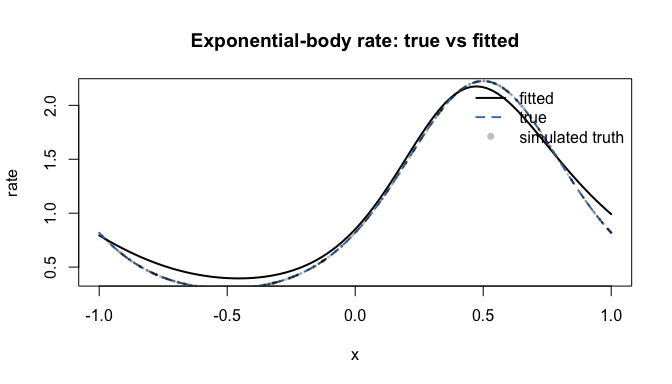
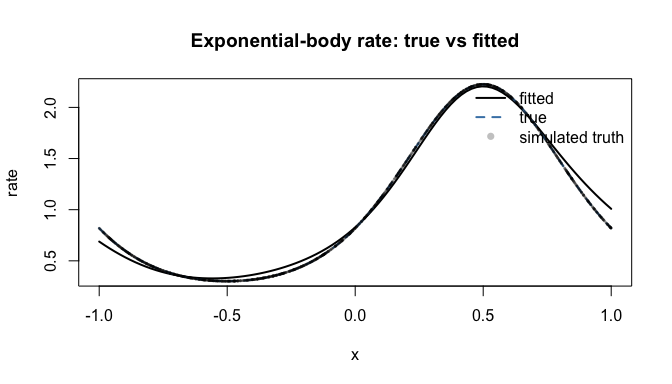
Increase sample size in composite Pareto vignette
Bump the GAM example from n=400 to n=2000 so the recovered rate(x)
visibly tracks the true sine, and add a note that recovery is an MLE
problem with 1/sqrt(n) precision so smaller samples look noisier.

diff --git a/articles/composite-pareto.md b/articles/composite-pareto.md
@@ -145,14 +145,15 @@ examples because it only needs three parameter formulas.
 ## 4. Fitting a CompPareto GAM
 
 Here we simulate data from an exponential-body composite Pareto model
-with a smooth predictor effect on the body rate. For this illustration,
-we use a somewhat larger sample and a higher splice point so the
-nonlinear body signal is visible in the fitted GAM.
+with a smooth predictor effect on the body rate. Recovery of `rate(x)`
+is a maximum likelihood problem, so its precision scales like
+$1/\sqrt{n}$; we use a moderately large sample so the nonlinear body
+signal is clearly visible.
 
 ``` r
 set.seed(22)
 
-n <- 400
+n <- 2000
 x <- sort(stats::runif(n, -1, 1))
 rate <- exp(-0.2 + 1.0 * sin(pi * x))
 y <- vapply(
@@ -191,12 +192,12 @@ rate_true <- exp(-0.2 + 1.0 * sin(pi * pred_grid$x))
 
 head(round(pars_hat, 3))
 #>    rate alpha theta
-#> 1 0.794 1.219  3.98
-#> 2 0.766 1.219  3.98
-#> 3 0.738 1.219  3.98
-#> 4 0.712 1.219  3.98
-#> 5 0.686 1.219  3.98
-#> 6 0.662 1.219  3.98
+#> 1 0.688 1.338  3.43
+#> 2 0.654 1.338  3.43
+#> 3 0.622 1.338  3.43
+#> 4 0.591 1.338  3.43
+#> 5 0.562 1.338  3.43
+#> 6 0.535 1.338  3.43
 ```
 
 ``` r
@@ -214,7 +215,13 @@ legend("topright",
 ![](../articles/composite-pareto_files/figure-gfm/gam-plot-1.png)<!-- -->
 
 In this setup, the fitted smooth tracks the nonlinear truth well rather
-than shrinking toward a nearly linear trend.
+than shrinking toward a nearly linear trend. Note that recovering
+`rate(x)` from a single CompPareto draw per design point is a noisy
+maximum likelihood problem: each observation carries limited information
+about its own rate, so the smooth estimate tightens with sample size at
+the usual $1/\sqrt{n}$ rate. With `n = 400`, the same setup typically
+gives RMSE around `0.15`; the `n = 2000` example above lands around
+`0.06`.
 
 Quantile prediction also works through the regular `predict.egpd()`
 interface.
@@ -230,9 +237,9 @@ round(
   3
 )
 #>   q:0.5  q:0.9  q:0.99
-#> 1  2.06 17.374 137.147
-#> 2  2.06 17.374 137.147
-#> 3  2.06 17.374 137.147
+#> 1 2.565 16.492 107.904
+#> 2 2.565 16.492 107.904
+#> 3 2.565 16.492 107.904
 ```
 
 Randomized quantile residuals are available as well.
@@ -240,7 +247,7 @@ Randomized quantile residuals are available as well.
 ``` r
 summary(rqresid(fit, seed = 1))
 #>      Min.   1st Qu.    Median      Mean   3rd Qu.      Max. 
-#> -3.638040 -0.672670  0.025788  0.006043  0.664021  3.182871
+#> -3.530068 -0.637197 -0.001519  0.004450  0.689844  3.382021
 ```
 
 ## 5. Intercept-only four-parameter fits
